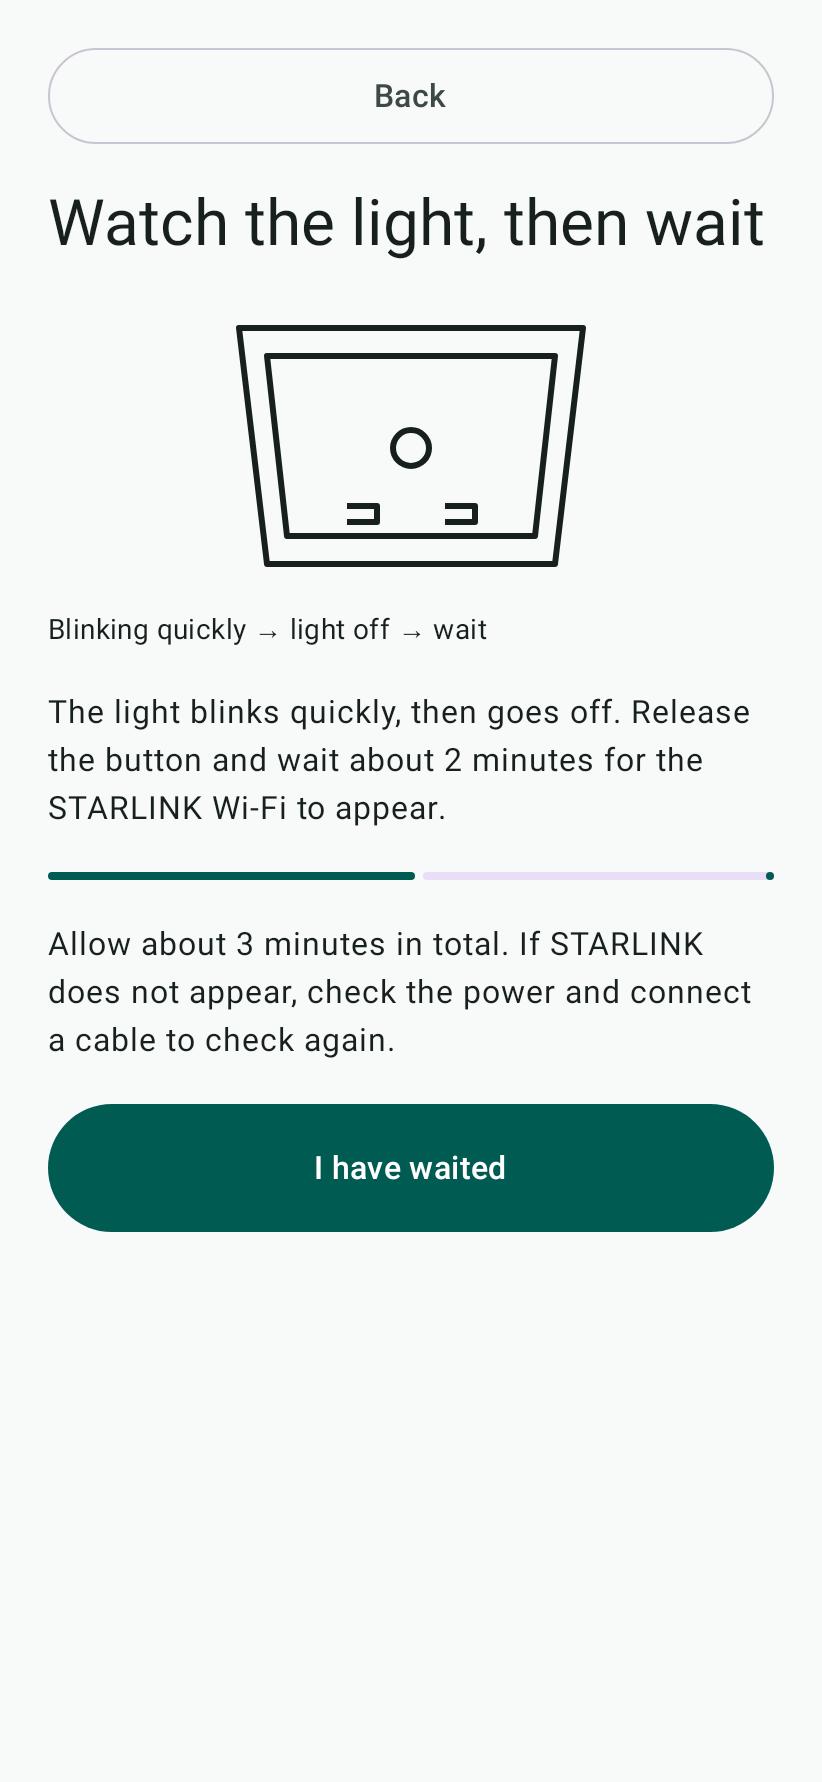
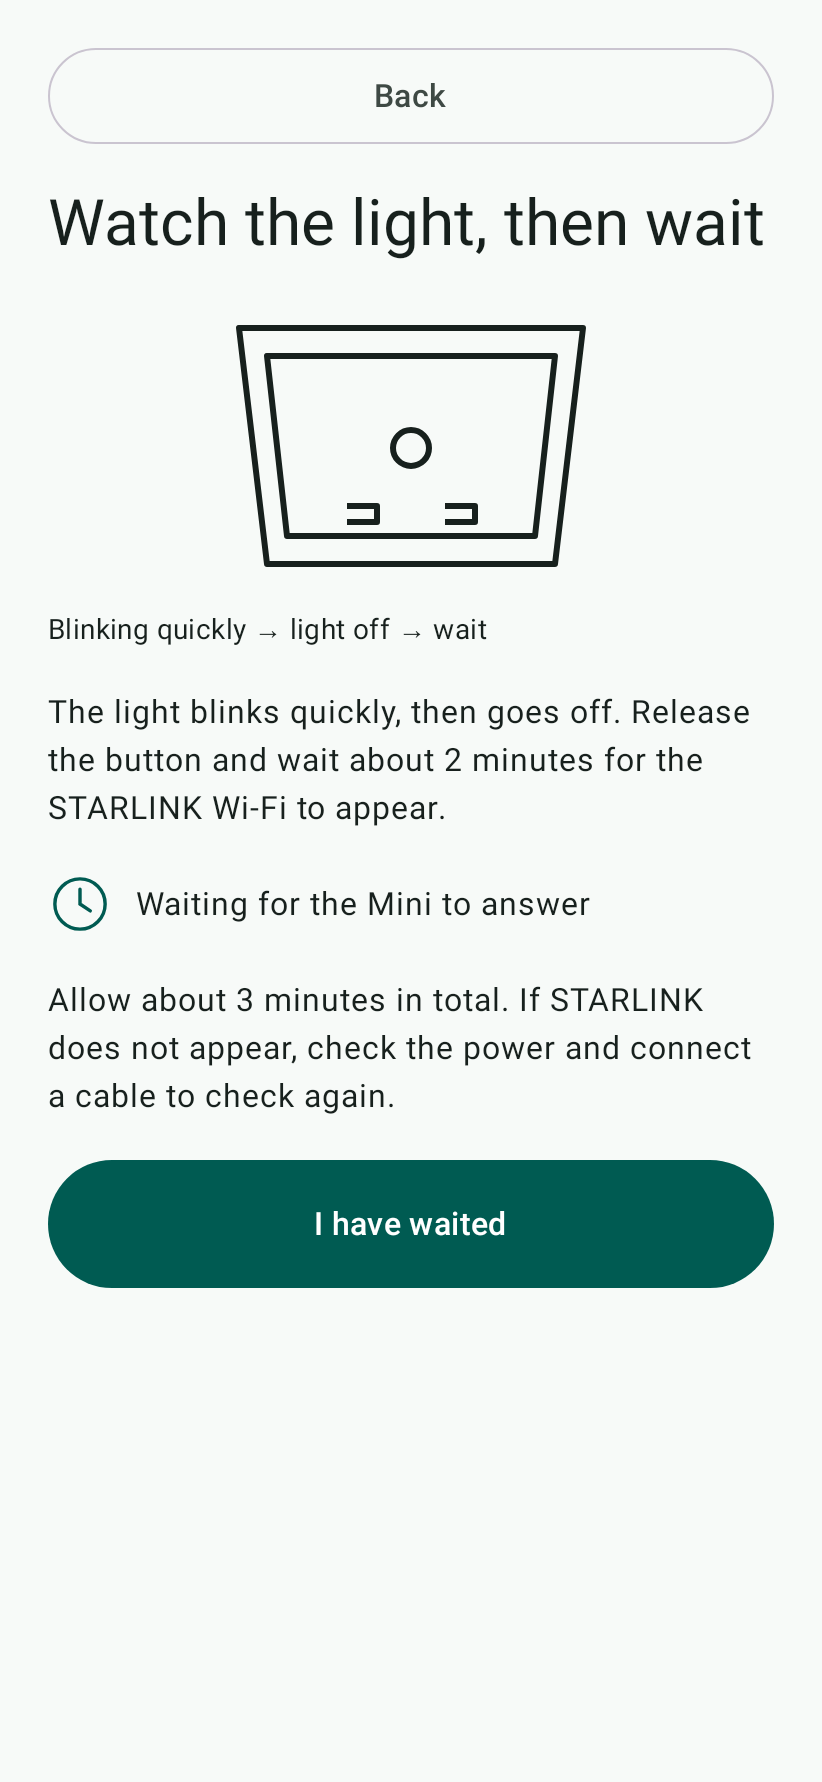
Keep reboot waiting clear with reduced motion
tribunal T-005; tribunal T-006: Remove the primary reset-guide action during Rebooting while preserving polling. Replace the frozen half-filled bar with static clock/text waiting. Record only affected screenshots and document round-1 regression evidence.

Changed region(s): [[0.0608, 0.463, 0.9428, 0.7407]]

diff --git a/app/src/test/kotlin/eu/tsernikov/slminiwifi/ui/FieldGuideScreenshotsTest.kt b/app/src/test/kotlin/eu/tsernikov/slminiwifi/ui/FieldGuideScreenshotsTest.kt
@@ -4,7 +4,6 @@ import androidx.compose.runtime.Composable
 import androidx.compose.runtime.CompositionLocalProvider
 import androidx.compose.runtime.mutableStateOf
 import androidx.compose.ui.platform.LocalDensity
-import androidx.compose.ui.semantics.ProgressBarRangeInfo
 import androidx.compose.ui.semantics.SemanticsActions
 import androidx.compose.ui.semantics.SemanticsProperties
 import androidx.compose.ui.test.SemanticsMatcher
@@ -76,6 +75,9 @@ class FieldGuideScreenshotsTest {
     @Test fun restartingLargeLight() = restarting(false, 2f)
     @Test fun restartingLargeDark() = restarting(true, 2f)
 
+    @Test fun homeRebootingLight() = home(MiniState.Rebooting, false)
+    @Test fun homeRebootingDark() = home(MiniState.Rebooting, true)
+
     @Test fun homeReadyLight() = home(MiniState.SetupPending, false)
     @Test fun homeReadyDark() = home(MiniState.SetupPending, true)
     @Test fun homeNotFoundLight() = home(MiniState.NotFound, false)
@@ -118,8 +120,8 @@ class FieldGuideScreenshotsTest {
         }
         compose.onNodeWithContentDescription(lightDescription)
             .assert(SemanticsMatcher.expectValue(SemanticsProperties.StateDescription, "Light off"))
-        compose.onNodeWithContentDescription("Clock: waiting for the Mini to answer")
-            .assert(SemanticsMatcher.expectValue(SemanticsProperties.ProgressBarRangeInfo, ProgressBarRangeInfo.Indeterminate))
+        compose.onNodeWithText("Waiting for the Mini to answer").assertIsDisplayed()
+        compose.onNode(SemanticsMatcher.keyIsDefined(SemanticsProperties.ProgressBarRangeInfo)).assertDoesNotExist()
     }
 
     private fun home(state: MiniState, dark: Boolean) {
@@ -131,11 +133,17 @@ class FieldGuideScreenshotsTest {
         }
         val name = "home_${state.name.lowercase()}_${suffix(dark, 1f)}"
         capture(name)
-        compose.onNodeWithText("Start here").performScrollTo()
-            .assertHeightIsAtLeast(if (state == MiniState.SetupPending) 48.dp else 64.dp).performClick()
+        if (state == MiniState.Rebooting) {
+            compose.onNodeWithText("Start here").assertDoesNotExist()
+            compose.onNodeWithText("Waiting for the Mini to answer").performScrollTo().assertIsDisplayed()
+            compose.onNodeWithText("We will check every 3 seconds", substring = true).performScrollTo().assertIsDisplayed()
+        } else {
+            compose.onNodeWithText("Start here").performScrollTo()
+                .assertHeightIsAtLeast(if (state == MiniState.SetupPending) 48.dp else 64.dp).performClick()
+        }
         compose.onNodeWithText("Reset help").performScrollTo().assertIsDisplayed().performClick()
         capture("${name}_help")
-        assertEquals(1, guides)
+        assertEquals(if (state == MiniState.Rebooting) 0 else 1, guides)
         assertEquals(1, helps)
         checkFieldSizesAndText()
     }

diff --git a/app/src/test/kotlin/eu/tsernikov/slminiwifi/SetupViewModelLifecycleTest.kt b/app/src/test/kotlin/eu/tsernikov/slminiwifi/SetupViewModelLifecycleTest.kt
@@ -174,6 +174,50 @@ class SetupViewModelLifecycleTest {
         } finally { controller.destroy(); Dispatchers.resetMain() }
     }
 
+    @Test fun homeKeepsPollingThroughRebootUntilMiniAnswersAgain() = runTest {
+        Dispatchers.setMain(StandardTestDispatcher(testScheduler))
+        val model = SetupViewModel(application)
+        val store = ViewModelStore().apply { put("setup", model) }
+        try {
+            ethernet()
+            var reachable = true
+            var reads = 0
+            model.transportFactory = { _, _ -> object : Transport {
+                override suspend fun post(url: String, headers: Map<String, String>, body: ByteArray): HttpResponse {
+                    reads++
+                    if (!reachable) throw IOException("Restarting")
+                    return when {
+                        body.contentEquals(Requests.wifiGetConfig()) -> response(3009,
+                            Wire.Writer().bytes(1, Wire.Writer().varint(7, 1).toByteArray()).toByteArray())
+                        body.contentEquals(Requests.getStatus()) -> response(3004)
+                        else -> response(1004)
+                    }
+                }
+            } }
+            model.start()
+            runCurrent()
+            assertEquals(MiniState.Configured, model.snapshot.state)
+            val polling = model.polling
+            reachable = false
+            advanceTimeBy(3_000)
+            runCurrent()
+            assertEquals(MiniState.Rebooting, model.snapshot.state)
+            assertEquals(Screen.Home, model.screen)
+            val readsDuringReboot = reads
+            advanceTimeBy(3_000)
+            runCurrent()
+            assertTrue(reads > readsDuringReboot)
+            assertSame(polling, model.polling)
+            assertTrue(polling!!.isActive)
+            reachable = true
+            advanceTimeBy(3_000)
+            runCurrent()
+            assertEquals(MiniState.Configured, model.snapshot.state)
+            assertEquals(Screen.Home, model.screen)
+            assertNull(model.writing)
+        } finally { model.stop(); store.clear(); Dispatchers.resetMain() }
+    }
+
     @Test fun returningToConfirmationRequiresFreshReadBeforeTheTapCanWrite() = runTest {
         Dispatchers.setMain(StandardTestDispatcher(testScheduler))
         val model = SetupViewModel(application)

diff --git a/app/src/main/kotlin/eu/tsernikov/slminiwifi/ui/FieldGuideScreens.kt b/app/src/main/kotlin/eu/tsernikov/slminiwifi/ui/FieldGuideScreens.kt
@@ -13,6 +13,7 @@ import androidx.compose.foundation.border
 import androidx.compose.foundation.layout.Arrangement
 import androidx.compose.foundation.layout.Box
 import androidx.compose.foundation.layout.Column
+import androidx.compose.foundation.layout.Row
 import androidx.compose.foundation.layout.fillMaxWidth
 import androidx.compose.foundation.layout.height
 import androidx.compose.foundation.layout.padding
@@ -158,16 +159,17 @@ internal fun ResetLightIllustration(animate: Boolean = true) {
     }
 }
 
-/** All waits use a static final indicator when Android animations have been removed. */
+/** Reduced motion uses an explicit static wait, with no implied fraction completed. */
 @Composable
 internal fun WaitingProgress(animate: Boolean = true) {
     if (rememberGuideAnimationsEnabled(animate)) {
         LinearProgressIndicator(modifier = Modifier.fillMaxWidth())
     } else {
-        // This is an illustration of waiting, never a claim that the actual operation has finished.
-        val description = stringResource(R.string.rebooting_icon_description)
-        LinearProgressIndicator(progress = { 0.5f }, modifier = Modifier.fillMaxWidth()
-            .clearAndSetSemantics { contentDescription = description; progressBarRangeInfo = ProgressBarRangeInfo.Indeterminate })
+        Row(horizontalArrangement = Arrangement.spacedBy(12.dp), verticalAlignment = Alignment.CenterVertically) {
+            Image(painterResource(R.drawable.ic_waiting), null, Modifier.size(32.dp),
+                colorFilter = ColorFilter.tint(MaterialTheme.colorScheme.primary))
+            Text(stringResource(R.string.waiting_for_mini))
+        }
     }
 }
 

diff --git a/app/src/main/kotlin/eu/tsernikov/slminiwifi/ui/Screens.kt b/app/src/main/kotlin/eu/tsernikov/slminiwifi/ui/Screens.kt
@@ -99,7 +99,7 @@ fun HomeScreen(
         Heading(stringResource(title))
         Text(stringResource(body))
         onShowCredentials?.let { SecondaryButton(R.string.wifi_on_home_password, it) }
-        if (state != MiniState.SetupPending) onGuide?.let { PrimaryButton(R.string.field_start_here, it) }
+        if (state != MiniState.SetupPending && state != MiniState.Rebooting) onGuide?.let { PrimaryButton(R.string.field_start_here, it) }
         message?.let { Text(stringResource(it), style = MaterialTheme.typography.bodyLarge) }
         onPermissions?.let { PrimaryButton(permissionsLabel, it) }
         if (isChecking || isConnecting || state == MiniState.Rebooting) {

diff --git a/docs/TESTING.md b/docs/TESTING.md
@@ -232,3 +232,30 @@ Validation on 2026-10-18:
   `timedOutHome*`, `details*`, secure setup/progress/reconnect, Wi-Fi-off progress/likely
   result/200%-font result, and M4 restarting captures. No unrelated screenshots recorded.
 - Hardware checks above were not run; no writes were sent to real hardware.
+
+
+## PR #18 tribunal round 1 regression evidence
+
+All network behavior below uses fake transports; no real Mini writes were performed.
+
+| Finding | Regression evidence |
+|---|---|
+| T-001 | `MainActivityRecoveryTest.helpCheckAgainReturnsToResultAndPreservesCredentials`; `RobustnessScreensTest.savedPasswordHomeEntryReachesPasswordAndQrInEveryPostSetupState` follows Configured, Rebooting and NotFound Home entries through password and QR, then Done. Existing `savedPasswordEntryAvailableInEveryHomeState` covers visibility in all states. |
+| T-002 | `FieldGuideScreenshotsTest.guideStepChangesStartAtTopAtLargeFontIncludingBackAndAlternatePaths` scrolls each step to the bottom and checks the next step starts at zero, including Back and cable/Wi-Fi alternatives at 200% text. |
+| T-003 | `MainActivityRecoveryTest.quickLaunchRoutesOnlyIdleScreensHomeAndPreservesSetupAndResults` covers both results, phone-save guidance, editing, both confirmations and both progress screens. |
+| T-004 | `ResetPressAnimationTest.pressHoldsThreeSecondsThenRemainsReleasedThroughCycleEnd` samples the entire three-second hold and the 4000–4500 ms released pause. |
+| T-005 | `FieldGuideScreenshotsTest.homeRebootingLight` / `homeRebootingDark` assert no Start here action and visible waiting/recovery text; `SetupViewModelLifecycleTest.homeKeepsPollingThroughRebootUntilMiniAnswersAgain` verifies the same polling job reads through restart and recovery. |
+| T-006 | `FieldGuideScreenshotsTest.reducedMotionShowsOffAndDoesNotClaimHalfFinished` asserts static waiting text and no progress-range semantics. Affected light/dark and 200%-text guide/wait screenshots show the clock and text. |
+| T-007 (part of T-003) | `MainActivityRecoveryTest.quickLaunchKeepsPermissionStateEvenAfterDialogRequestIsConsumed`; `SetupViewModelLifecycleTest.quickLaunchDuringSecurePermissionPromptStillSendsExactlyOnceAfterGrant` exercises the permission request, quick launch, grant and one fake write, with no resend. |
+| T-008 | `MainActivityRecoveryTest.coldQuickLaunchAppliesIdleRuleAfterSavedStateRestoration` and `coldQuickLaunchKeepsRestoredSavedCredentials` exercise actual Activity creation with the setup action and saved state. |
+
+Screenshot selection: `ScreenshotsTest.rebooting*`,
+`FieldGuideScreenshotsTest.homeRebooting*`, `lightLight`, `lightDark`,
+`lightLarge*`, and `restarting*`. Only these 12 affected screenshot tests were
+recorded: 22 existing images updated and 4 new Home restart images added.
+
+Validation on 2026-10-18: `ANDROID_HOME=/home/dev/android-sdk ./gradlew --no-daemon build test`
+completed successfully. App: **322 tests in 22 suites**; protocol: **52 tests in
+5 suites**; total: **374 tests in 27 suites**, with **0 failures, 0 errors and
+0 skipped**. Android lint: **20 warnings, 0 errors**. Human hardware and physical
+animation checks remain the existing M4 procedures above.

diff --git a/docs/ARCHITECTURE.md b/docs/ARCHITECTURE.md
@@ -110,8 +110,9 @@ existing read-only detection before offering the two setup choices. The tile doe
 no network work and uses `startActivityAndCollapse(PendingIntent)` on API 34+.
 The shortcut uses a separate, no-history launcher activity: Android clears the
 static shortcut target task, so this activity forwards an explicit intent into the
-existing app task. Reopening during a confirmed setup keeps its progress screen;
-it never interrupts verification or sends another change.
+existing app task. Warm and cold quick entry return only idle screens to Home. Editing, confirmation,
+pending permission dialogs, progress, saved-password results and phone-save guidance
+keep their current context. Quick entry never interrupts verification or sends another change.
 
 Home's **Start here** guide explains the physical reset, blinking-then-off light,
 wait, and either cable connection or STARLINK plus Android's Connect dialog. Its
@@ -119,13 +120,16 @@ last step returns to existing state detection. Back retraces the selected path;
 the step survives activity recreation without restoring any pending write.
 **Reset help** is an offline card reachable from Home and every error presentation.
 It explains that reset removes the saved Wi-Fi name/password and offers both Back
-and Check again. Reading the guide/help does not start network work.
+and Check again. From a result, both return to that result so credentials remain
+visible. Guide step changes start at the top, including Back and alternate paths.
+Home keeps restart waiting prominent without a Start here reset action while polling.
+Reading the guide/help does not start network work.
 
 All illustrations are project-drawn bundled vectors, animated as separate vector
 layers. The reset press holds for three seconds; the illustrative light sequence
 ends off. Readiness is established by detection, never by an off light alone.
 Android's Remove animations setting is observed while screens are open and shows
-still final poses, including an indeterminate, static wait indicator. Shared wait
+still final poses; waiting uses a static clock and text without a partial progress bar. Shared wait
 presentation supplies the expected time and recovery instruction; existing bounded
 state and setup verification policies remain unchanged.
 

diff --git a/docs/ROADMAP.md b/docs/ROADMAP.md
@@ -58,6 +58,12 @@ Tick tasks as they land. Each milestone ends in a working build; see the definit
 - [x] IO profile persistence, plain input rules, regression tests and affected light/dark screenshots
 - [ ] Human lifecycle/reconnect checks below the M2/M3 procedures in TESTING.md
 
+## PR #18 tribunal round 1
+
+- [x] Preserve result credentials through reset help and warm/cold quick entry, including pending permission prompts (T-001, T-003, T-007, T-008)
+- [x] Reset guide scroll on step changes and keep the reset animation released after its three-second hold (T-002, T-004)
+- [x] Keep reboot polling prominent and use a static clock/text wait for reduced motion (T-005, T-006)
+
 ## M5: Release
 
 - [ ] Acceptance test with at least three non-technical people (UX.md); fix every hesitation found
